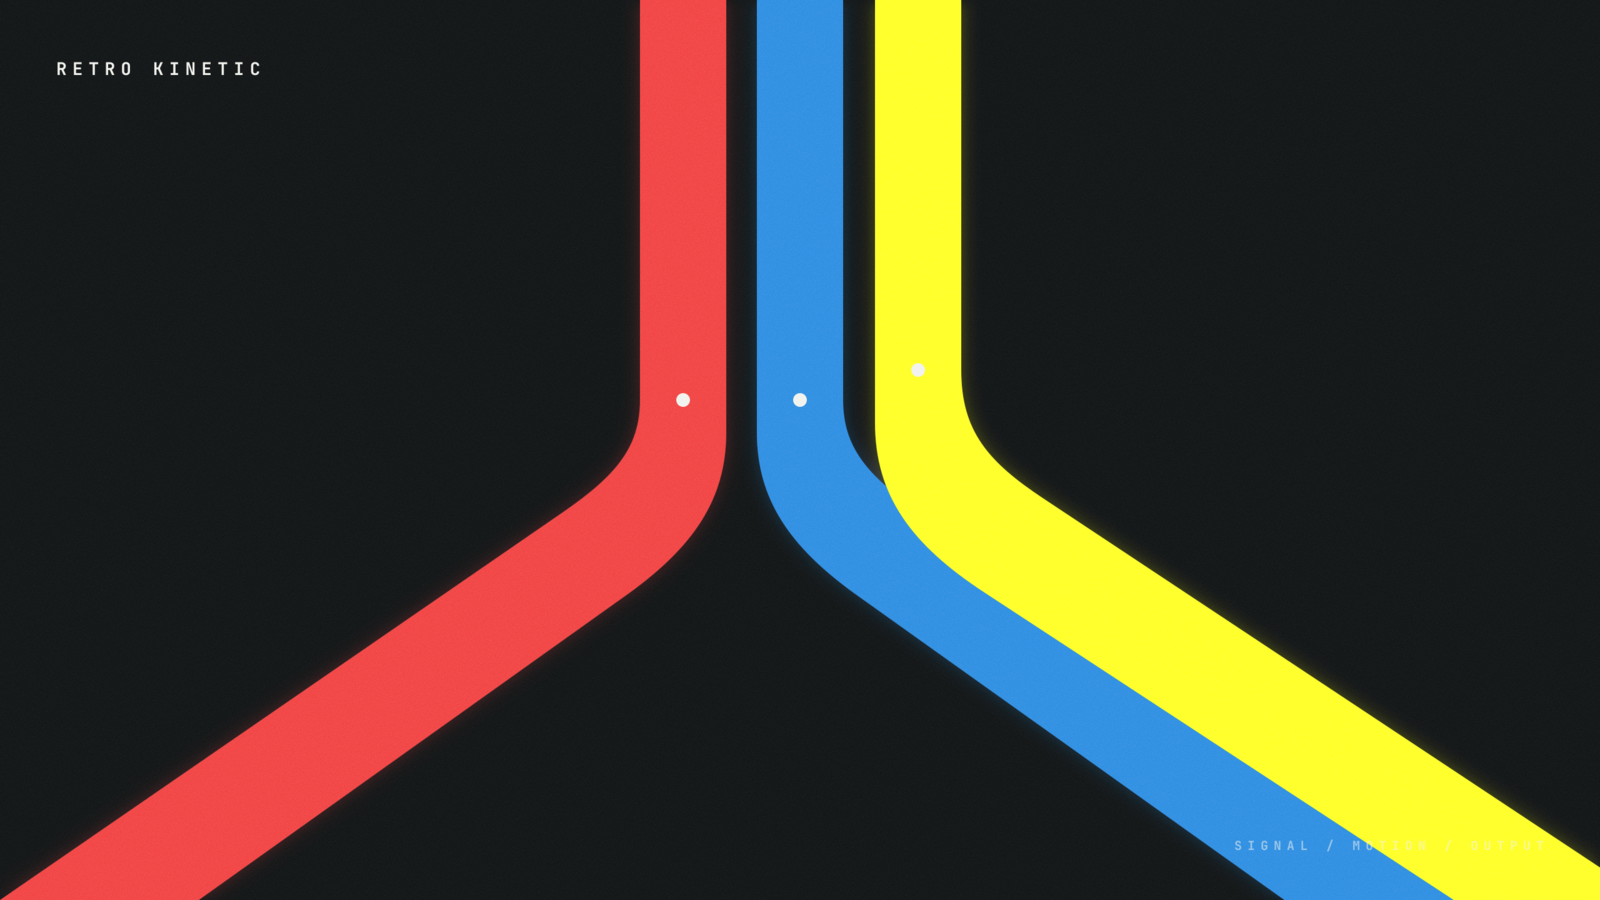
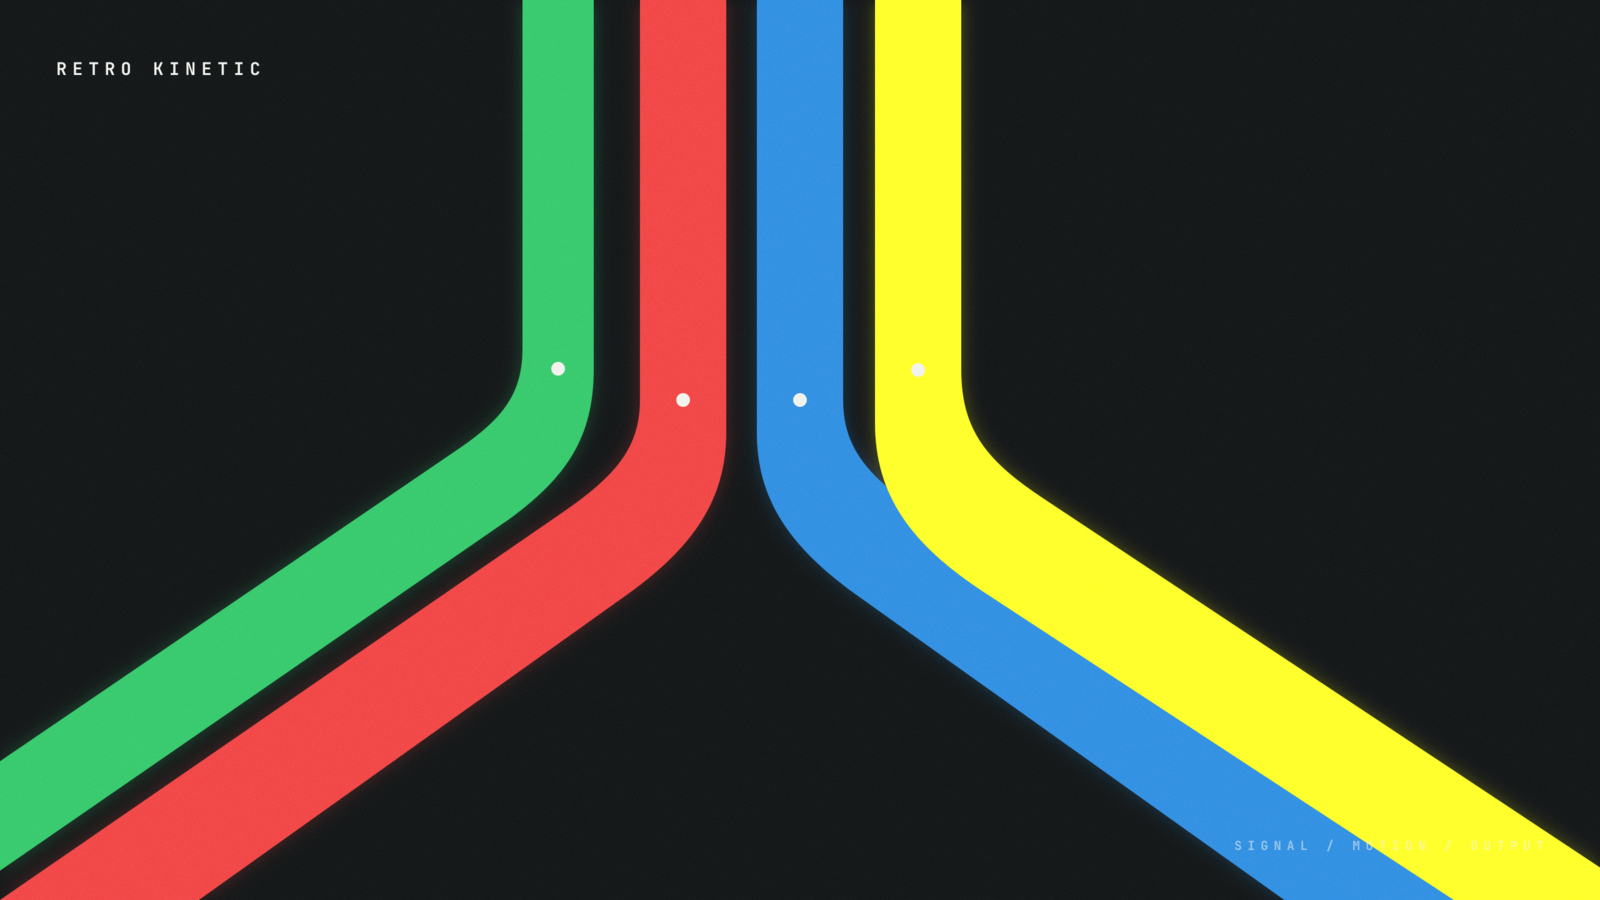
Add success green to palette

Changed region(s): [[0.0, 0.0, 0.375, 0.9644]]

diff --git a/README.md b/README.md
@@ -22,6 +22,7 @@ omarchy theme install https://github.com/gardnmi/omarchy-retro-kinetic-theme
 | Blue accent | `#168DE2` |
 | Signal red | `#F23838` |
 | Signal yellow | `#FFFF00` |
+| Success green | `#20C967` |
 | Muted | `#777C7A` |
 
 The full terminal palette is defined in [`colors.toml`](colors.toml). Icons use
@@ -36,8 +37,9 @@ An optional truecolor OpenCode theme is included at
 
 - Near-black surfaces preserve the high-contrast editorial look.
 - Three-pixel blue borders echo the outlined cards and gauges of kinetic infographics.
-- Red and yellow are reserved for alerts, recording states, and warnings.
-- ANSI colors collapse onto blue, red, yellow, and off-white so terminal syntax
+- Red and yellow are reserved for alerts, recording states, and warnings;
+  green marks successful and completed states.
+- ANSI colors collapse onto blue, red, yellow, green, and off-white so terminal syntax
   stays inside the visual language instead of introducing unrelated hues.
 - ANSI cyan maps to signal red, giving terminal interfaces a regular red
   structural accent instead of reserving red only for errors.
